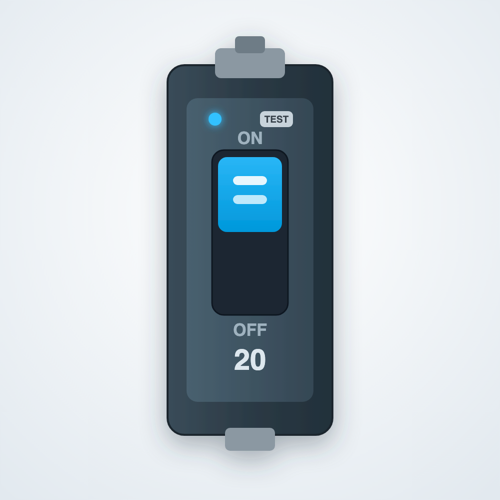
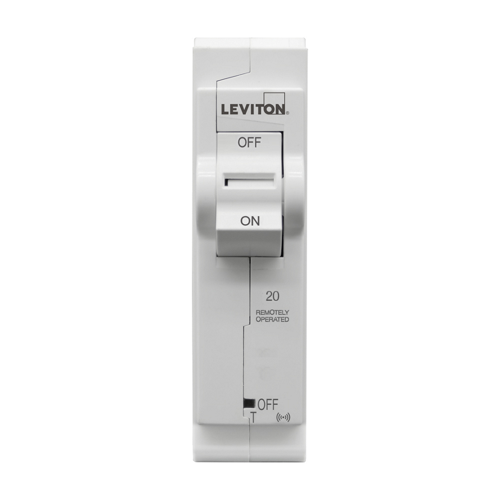
Address all App Store certification review findings
Name drops "(Unofficial)" per store rules (badge system covers it);
one-sentence description; two-paragraph store readme; trip trigger reads
"The breaker tripped due to [[reason]]"; bulk cards drop the broken
[[panel]] title placeholder; four unique single-colour vector icons;
driver images replaced with real Leviton product photos on white.

diff --git a/CHANGELOG.md b/CHANGELOG.md
@@ -13,6 +13,29 @@ All notable changes to this project are recorded here, newest first.
 >   fixes = patch, new cards/capabilities = minor, breaking = major.
 > - Entries say what a **user** will notice, not which files changed.
 
+## Unreleased
+
+Addresses all points from the App Store certification review of build 2.
+
+### Changed
+- **App name is simply "Leviton Load Center"** — the store forbids parentheses in names, and the
+  App Store's own developer-badge system already distinguishes community apps, so the
+  "(Unofficial)" suffix is gone from the name. The unofficial status remains stated in the store
+  description and readme.
+- **Store description** is now a one-sentence tagline; the **store readme** (README.txt) is trimmed
+  to two short plain-text paragraphs per the guidelines.
+- **Flow cards:** the trip trigger now reads "The breaker tripped due to [reason]" (no
+  parentheses), with the reason dropdown reworded to fit the sentence (saved Flows keep working —
+  stored values are unchanged). The three bulk-action cards no longer embed the panel picker in
+  their title (it showed as a raw "[[panel]]" placeholder in the store); the picker now renders
+  as a normal argument below the card.
+- **Icons:** the app, Breaker, and Load Center icons were one identical filled blue placeholder.
+  Each is now a unique single-colour vector glyph (bolt-in-panel-door, breaker with toggle, panel
+  with breaker rows, CT clamp) that renders correctly when tinted by the Homey UI.
+- **Driver images are now real product photos on white** (Leviton LB120-ST breaker, LWHEM-2
+  energy monitor, LSMMA current transformers) as required by the store guidelines, replacing the
+  illustrations. The illustrated app-level hero images are unchanged.
+
 ## 1.0.7 — 2026-07-27
 
 App Store build 2 — replaces build 1 for the certification submission.
